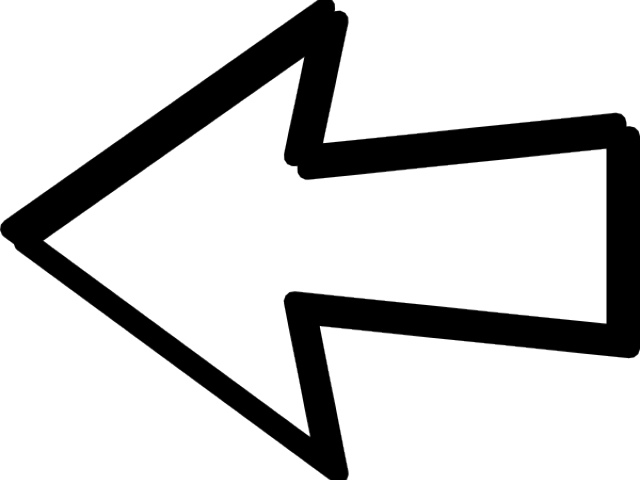
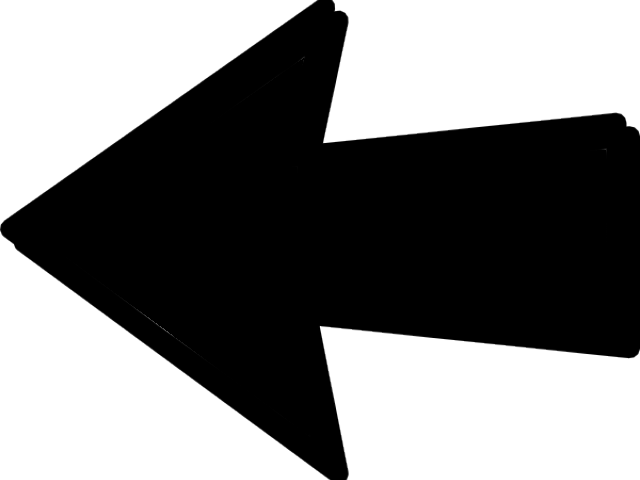
created spinner button

Changed region(s): [[0.0625, 0.125, 0.9688, 0.9062]]

diff --git a/css/style.css b/css/style.css
@@ -57,6 +57,19 @@ body {
   height: 30vw;
   border: 10px solid green;
   background-color: lightgreen;
+  position: relative;
+}
+
+.spinnerContainer::after {
+  position: absolute;
+  content: '';
+  width: 20px;
+  height: 20px;
+  top: 50%;
+  right: -40px;
+  transform: translateY(-50%);
+  background: url('/img/left.png') no-repeat;
+  background-size: 20px;
 }
 
 .spinner {
@@ -68,22 +81,12 @@ body {
   overflow: hidden;
 }
 
-.spinner:after {
-  height: 100px;
-  width: 100px;
-  content: "";
-  background: url('/img/left.png') no-repeat;
-  background-size: 100px;
-  right: -0;
-  top: 50%;
-  position: absolute;
-}
-
 .box1 {
   position: relative;
   width: 100%;
   height: 100%;
-  transform: scale(1.3) rotate(30deg);
+  transform: scale(1.3);
+  transition: all 3s ease-in-out;
 }
 
 span {
@@ -98,6 +101,7 @@ span {
   background-color: purple;
   top: 0;
   left: 0;
+  color: black;
 }
 
 .triangle2 {
@@ -138,4 +142,26 @@ span {
   bottom: 0;
   left: 0;
   transform: rotate(60deg) translate(-18% ,-32%);
+}
+
+.spinButton {
+  position: absolute;
+  top: 50%;
+  left: 50%;
+  transform: translate(-50%, -50%);
+  border-radius: 50%;
+  height: 8vw;
+  width: 8vw;
+  border: 10px solid #fff;
+  background-color: green;
+  box-shadow: 0px 5px 20px  #000; 
+  color: #fff;
+  font-size: 1rem;
+  font-weight: bold;
+  cursor: pointer;
+}
+
+.spinButton:active {
+  height: 7.75vw;
+  width: 7.75vw;
 }

diff --git a/index.html b/index.html
@@ -9,18 +9,20 @@
 </head>
 <body>
   <div class="gameContainer">
-    
+
     <div class="spinnerContainer">
       <div class="spinner">
-        <div class="box1">
-          <span class="triangle triangle1"></span>
-          <span class="triangle triangle2"></span>
-          <span class="triangle triangle3"></span>
-          <span class="triangle triangle4"></span>
-          <span class="triangle triangle5"></span>
-          <span class="triangle triangle6"></span>
+        <div id='box' class="box1">
+          <span class="triangle triangle1">1</span>
+          <span class="triangle triangle2">3</span>
+          <span class="triangle triangle3">2</span>
+          <span class="triangle triangle4">5</span>
+          <span class="triangle triangle5">4</span>
+          <span class="triangle triangle6">6</span>
         </div>
       </div>
+
+      <button class="spinButton" onclick="spin()">SPIN</button>
     </div>
 
     <div id="gameBoard "class="gameBoard"></div>

diff --git a/js/spinner.js b/js/spinner.js
@@ -1,0 +1,10 @@
+function spin() {
+  let x = 1000
+  let y = 5000
+
+  let deg = Math.floor( Math.random() * (x - y) ) + y
+
+  document.getElementById('box').style.transform = 'scale(1.3) rotate(' + deg + 'deg)'
+
+  console.log(Math.random() * -4000)
+}
